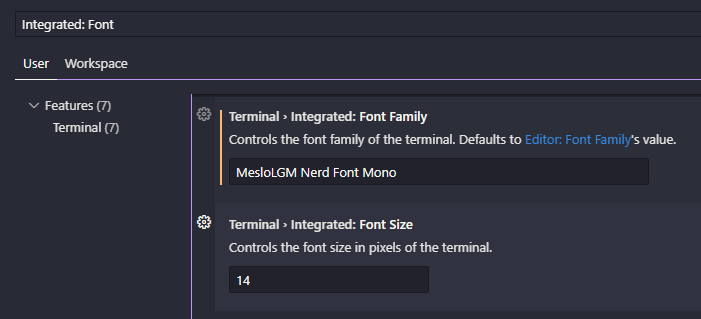
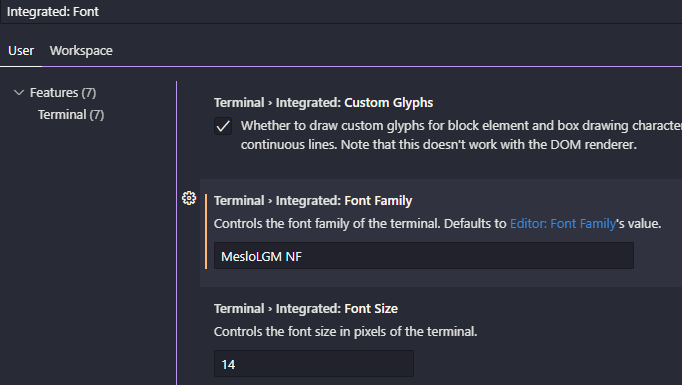
feat(samples): samples pngs added

diff --git a/README.md b/README.md
@@ -5,6 +5,20 @@ Além de não ser muito agradável aos olhos 😄. Mas há como dar uma turbinad
 
 Seguindo o passo a passo deste documento em alguns minutos você terá um PowerShell muito mais top e que vai te economizar tempo 😎.
 
+## Exemplos de customização
+
+### PowerShell com tema Fiduta
+
+![PowerShell Fiduta Theme](/assets/powershell-fiduta.png "PowerShell Fiduta Theme")
+
+### PowerShell com tema 1 Shell
+
+![PowerShell 1 Shell Theme](/assets/powershell-1shell.png "PowerShell 1 Shell Theme")
+
+### Terminal integado do VSCode com auto-complete e histórico
+
+![VS Code Integrated Terminal](/assets/vs-code-integrated.png "VS Code Integrated Terminal")
+
 # Instalando as ferramentas
 
 ## Windows Terminal
@@ -76,7 +90,7 @@ Isso pode ser feito facilmente modificando as configurações do Windows Termina
         {
             "font":
             {
-                "face": "MesloLGM Nerd Font Mono"
+                "face": "MesloLGM NF"
             }
         }
     }
@@ -108,7 +122,7 @@ Isso pode ser feito alterando o valor de `Integrated: Font Family` nas configura
 
 Se você estiver usando as configurações baseadas em JSON, precisará atualizar o valor `terminal.integrated.fontFamily`. 
 
-Exemplo no caso da *Meslo LGM NF* o valor da configuração deve ser "`MesloLGM Nerd Font Mono`":
+Exemplo no caso da *Meslo LGM NF* o valor da configuração deve ser "`MesloLGM NF`":
 
 ![vs code integrated terminal font](/assets/vs-code-font.png "vs code integrated terminal font")
 
@@ -134,13 +148,13 @@ Para dizer ao Powershell para iniciar o Oh My Posh, adicione esta linha ao seu p
 Local:
 
 ```powershell
-oh-my-posh --init --shell pwsh --config "C:/tools/oh-my-posh/themes/1_shell.omp.json" | Invoke-Expression
+oh-my-posh init pwsh --config "C:/tools/oh-my-posh/themes/1_shell.omp.json" | Invoke-Expression
 ```
 
 Ou via link:
 
 ```powershell
-oh-my-posh --init --shell pwsh --config "https://raw.githubusercontent.com/eryckson/powershell-customization/master/themes/fiduta.omp.json" | Invoke-Expression
+oh-my-posh init pwsh --config "https://raw.githubusercontent.com/eryckson/powershell-customization/master/themes/fiduta.omp.json" | Invoke-Expression
 ```
 
 Ao fazer alterações neste arquivo, você precisará recarregar o terminal para que as alterações mais recentes sejam aplicadas. Você pode fazer isso recarregando o perfil usando este comando:
